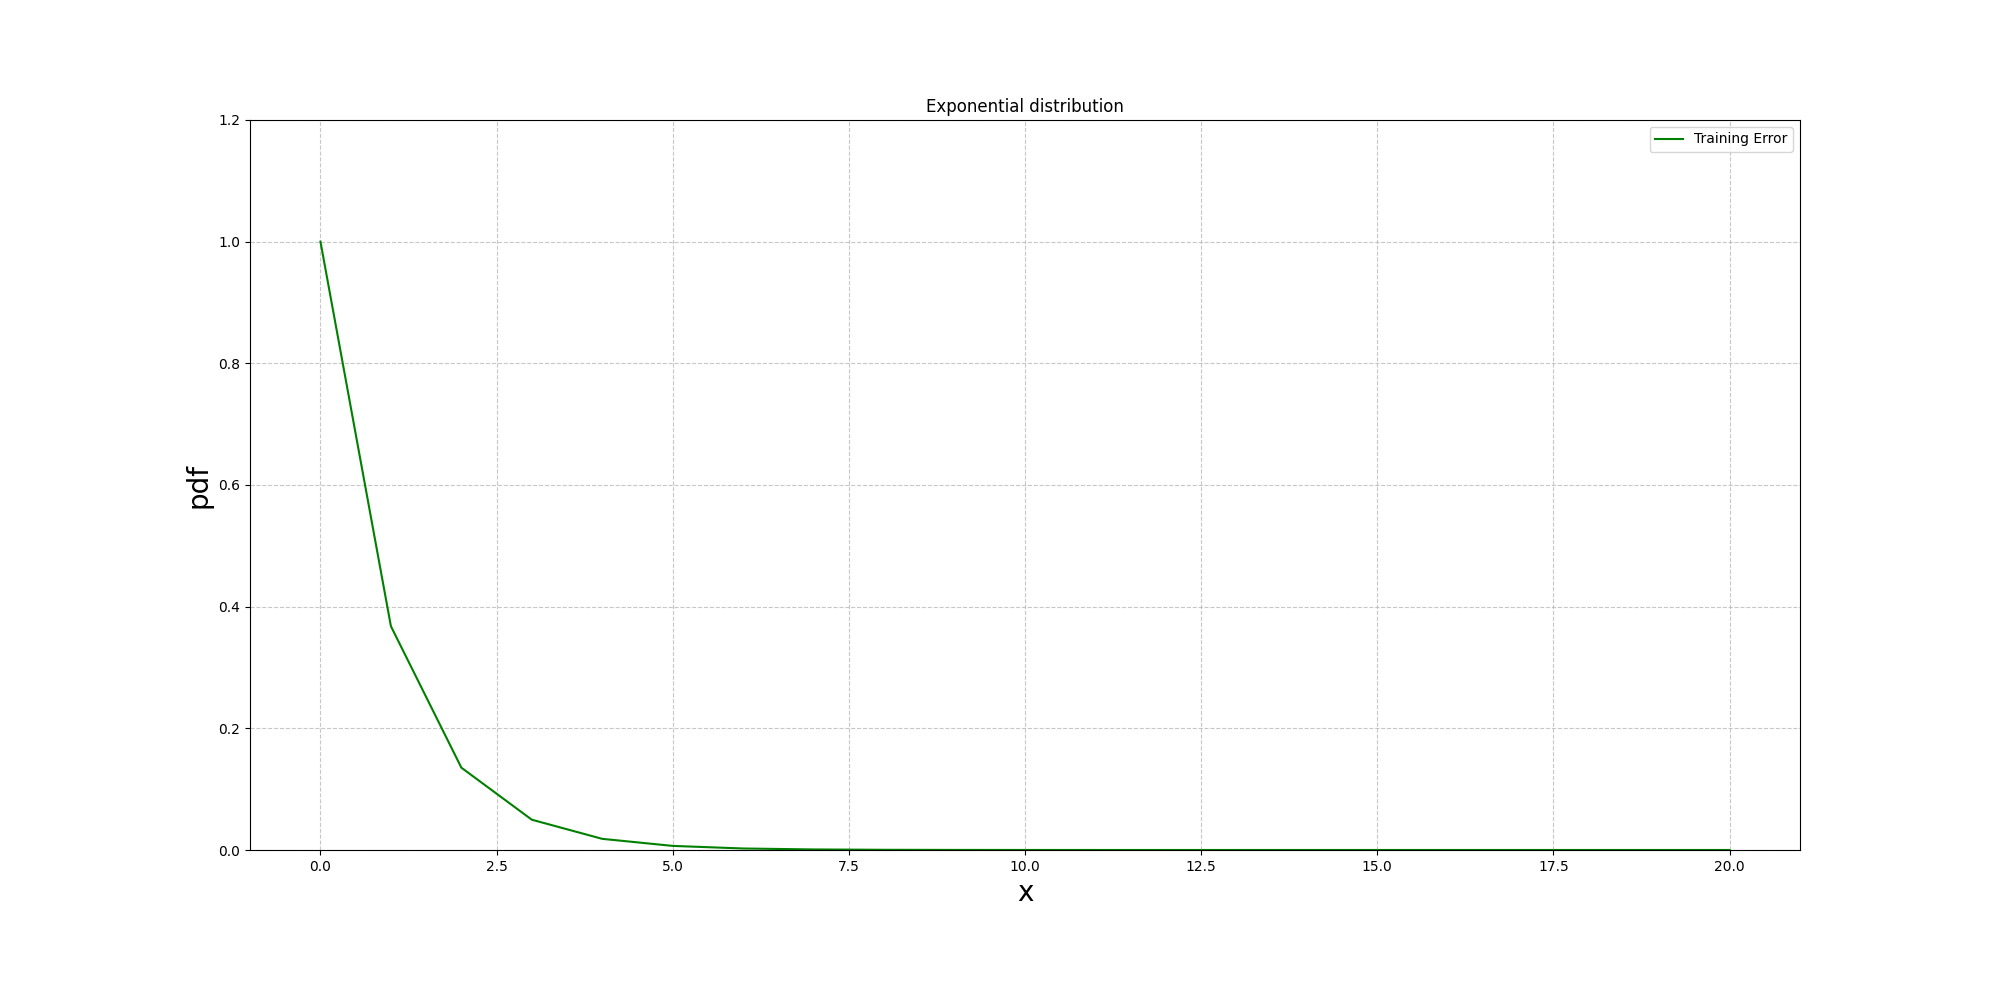
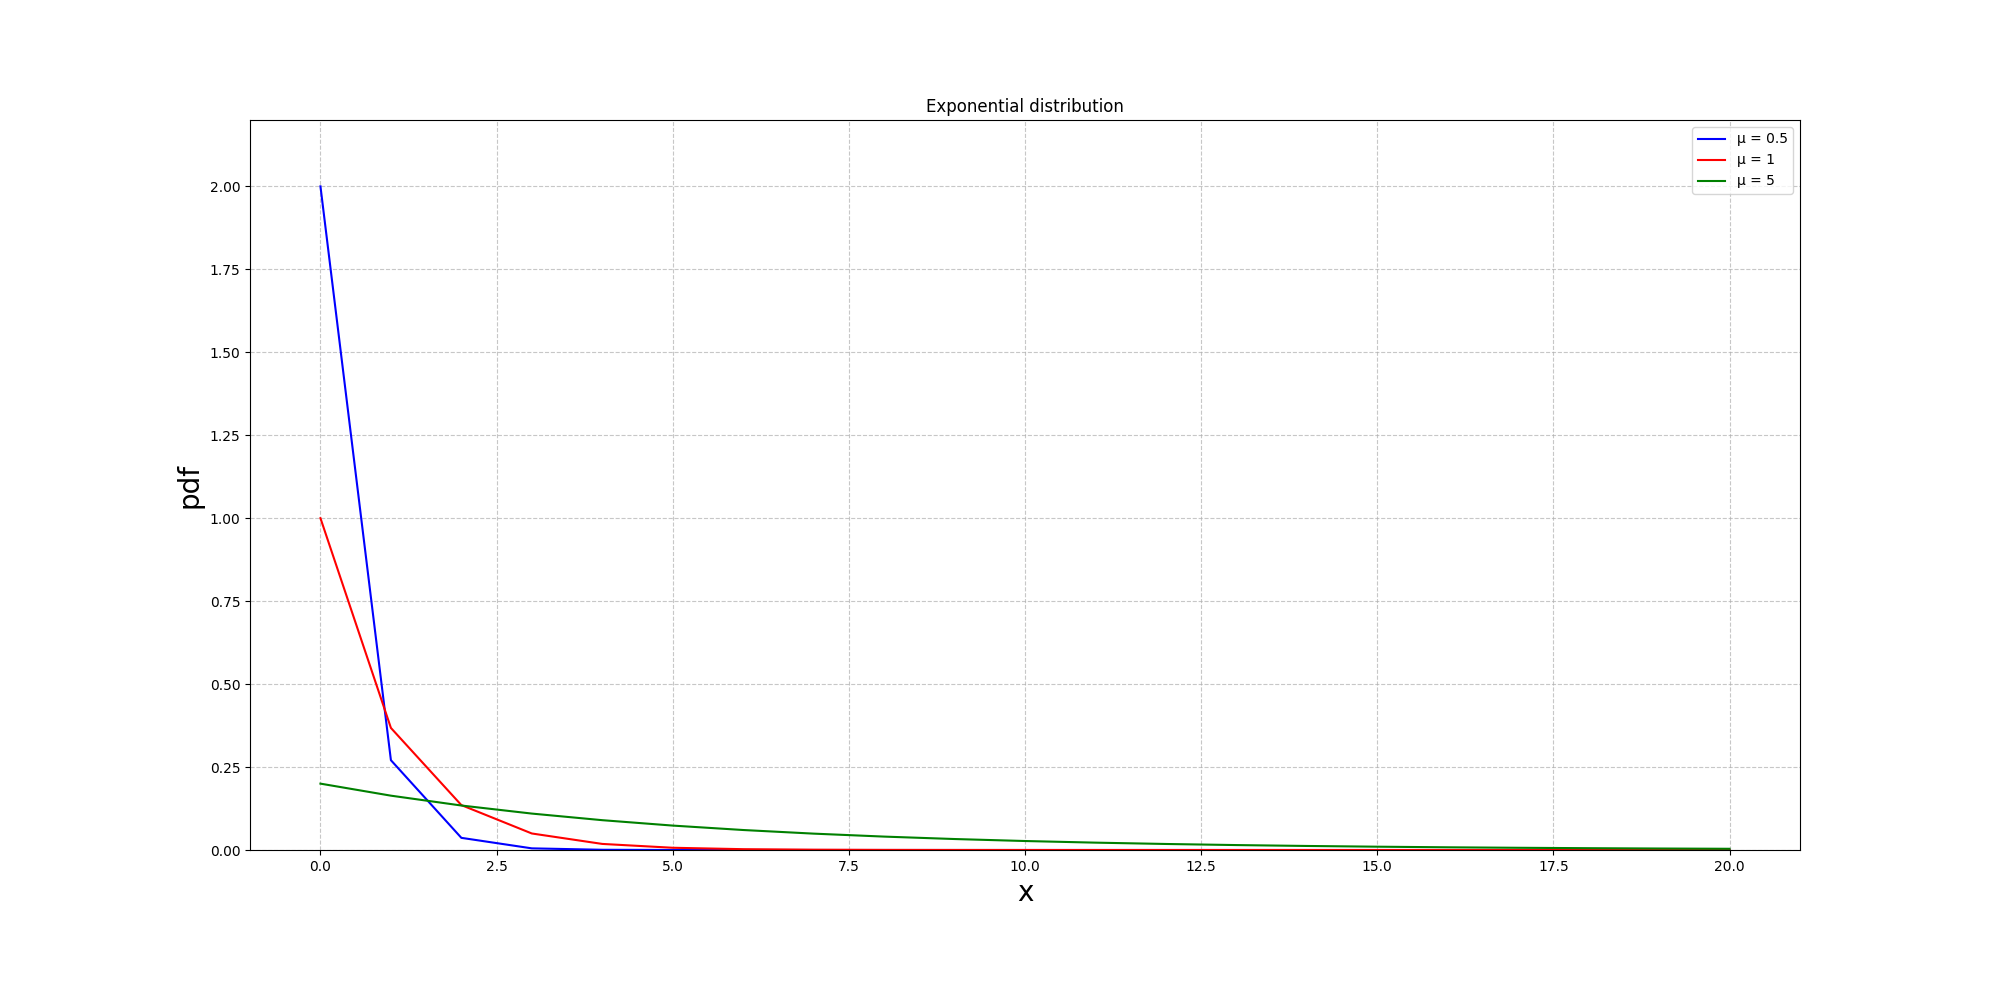
plot multiple charts

diff --git a/distributions/plot.py b/distributions/plot.py
@@ -35,17 +35,23 @@ def plot_binomial_distributions(probability_distibutions: dict) -> None:
 
 
 def plot_exponential(
-    X: np.ndarray, prob_density: np.ndarray, title: str, ylable: str, filename: str
+    prob_densities: dict, title: str, ylable: str, filename: str
 ) -> None:
     fig, ax = plt.subplots(figsize=(20, 10))
 
-    ax.plot(X, prob_density, label="Training Error", color="green")
+    for mu, prob_density in prob_densities.items():
+        ax.plot(
+            prob_density["x"],
+            prob_density["y"],
+            label=f"µ = {mu}",
+            color=prob_density["color"],
+        )
 
     ax.grid(axis="x", linestyle="--", alpha=0.7, zorder=0)
     ax.grid(axis="y", linestyle="--", alpha=0.7, zorder=0)
 
     plt.xlim([-1, 21])
-    plt.ylim([0, 1.2])
+    plt.ylim([0, 2.2])
     plt.xlabel("x", fontsize=20)
     plt.ylabel(ylable, fontsize=20)
     plt.title(title)

diff --git a/distributions/exponential.py b/distributions/exponential.py
@@ -12,7 +12,12 @@ def get_density_and_cumulative(mu: float) -> list[np.ndarray]:
 
 
 if __name__ == "__main__":
-    X, prob_density, cum_prob = get_density_and_cumulative(1)
+    prob_densities = {}
+    cum_probs = {}
+    distribution_means = {0.5: "blue", 1: "red", 5: "green"}
+    for mu, color in distribution_means.items():
+        X, prob_density, cum_prob = get_density_and_cumulative(mu)
+        prob_densities[mu] = {"x": X, "y": prob_density, "color": color}
     plot.plot_exponential(
-        X, prob_density, "Exponential distribution", "pdf", "exponential_pdf.png"
+        prob_densities, "Exponential distribution", "pdf", "exponential_pdf.png"
     )
